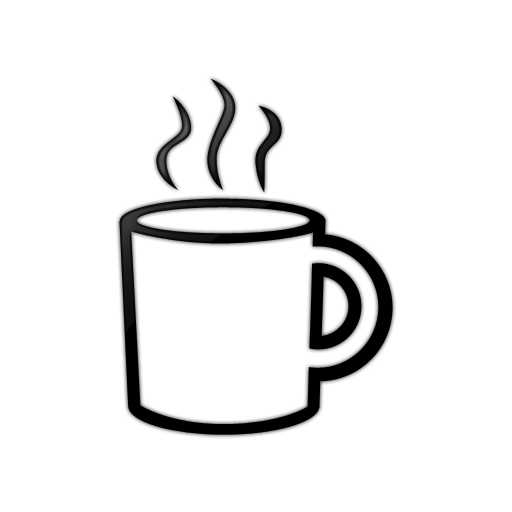
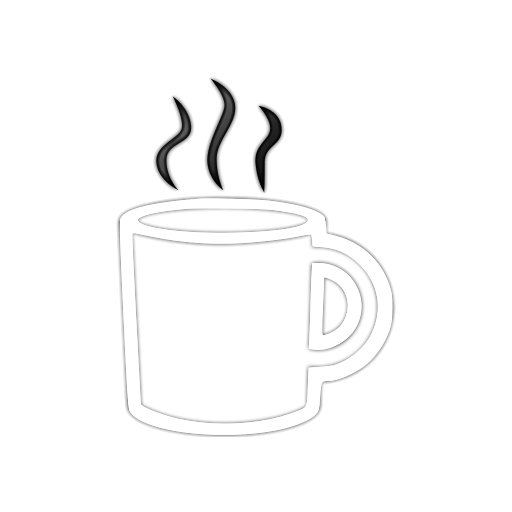
title/navButon

Changed region(s): [[0.2188, 0.375, 0.7812, 0.875]]

diff --git a/BuyMeCoffee/app/assets/stylesheets/navbar.scss b/BuyMeCoffee/app/assets/stylesheets/navbar.scss
@@ -26,6 +26,8 @@
   z-index: 800;
   background-color: #98DFAF;
   box-shadow: 0px 0px 8px 0px #000000;
+  width: 7em;
+  height: 7em;
 }
 
 .sliding-panel-content {
@@ -102,8 +104,11 @@
   outline: none;
 
   img {
-    background-color: #98DFAF;
-    height: 5em;
+  position: absolute;
+  margin-left: -1.1em;
+  margin-top: -3.6em;
+  height: 80%;
+  -webkit-filter: invert(100%);
   }
 }
 
@@ -116,11 +121,24 @@
 }
 
 .buy-title {
+  /*color: #FFFFFB;
   @include span-columns(3);
   z-index: 10001;
   position: absolute;
   @include shift(2.15);
   margin-top: -2.5em;
-  text-shadow: 3px 3px 3px #000000;
-  font-size: 3em;
+  /*text-shadow: 3px 3px 3px #000000;*/
+/*  font-size: 3em;*/
+
+   /* font-size: 3em; */
+  position: absolute;
+  margin-left: 64px;
+  font-size: 32px;
+  margin-top: -109px;
+  color: #FFFFFB;
+  z-index: 10000;
+  font-size: 29px;
+  width: 7%;
+  color: white;
+
 }

diff --git a/BuyMeCoffee/app/assets/javascripts/navbar.js b/BuyMeCoffee/app/assets/javascripts/navbar.js
@@ -1,5 +1,5 @@
 $(document).ready(function(){
-  $('.sliding-panel-button,.sliding-panel-fade-screen,.sliding-panel-close').on('click touchstart',function (e) {
+  $('.buy-title,.sliding-panel-button,.sliding-panel-fade-screen,.sliding-panel-close').on('click touchstart',function (e) {
     $('.sliding-panel-content,.sliding-panel-fade-screen').toggleClass('is-visible');
     e.preventDefault();
   });
